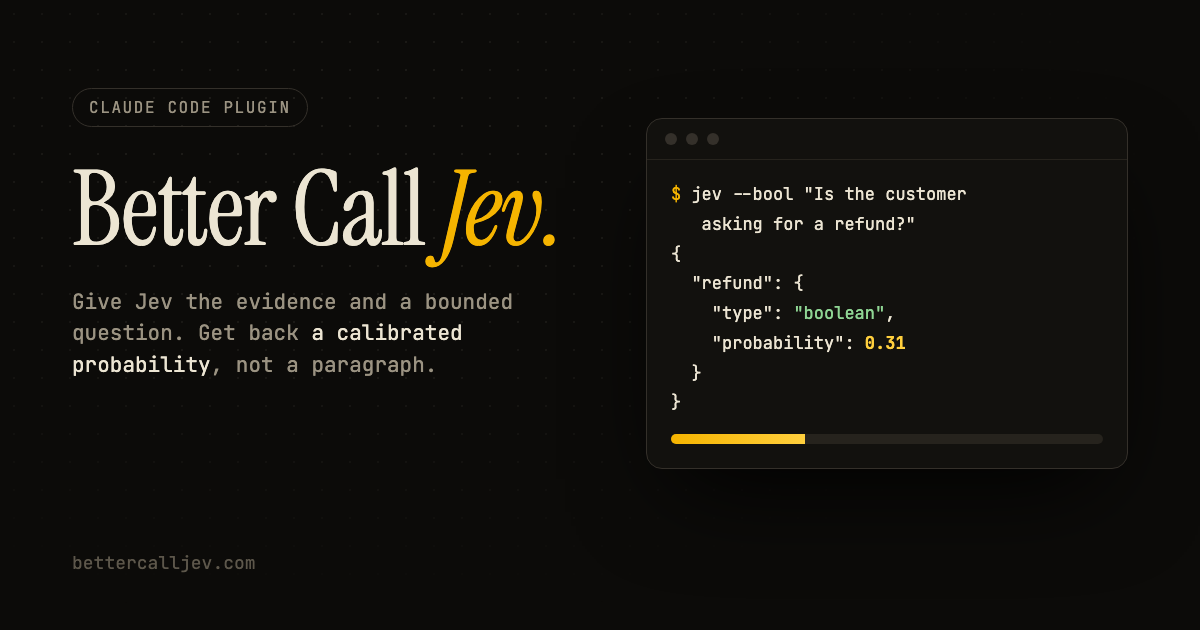
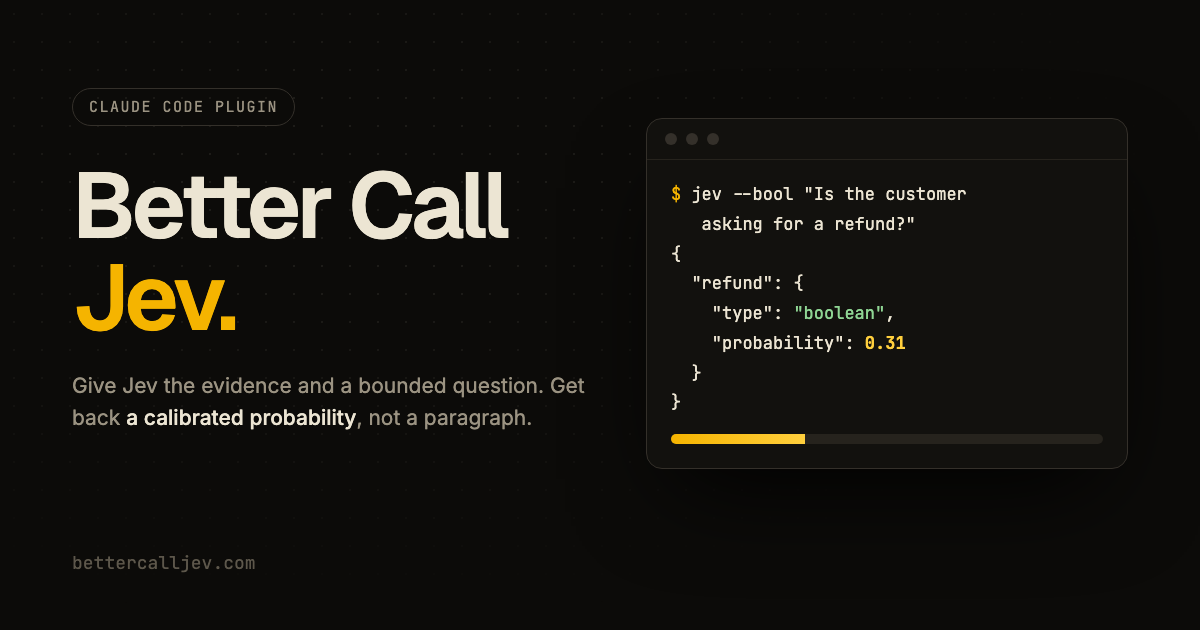
Switch site typography to Geist, Inter and JetBrains Mono

diff --git a/site/index.html b/site/index.html
@@ -31,7 +31,7 @@
 <link rel="alternate" type="text/plain" href="/llms.txt" title="llms.txt">
 <link rel="preconnect" href="https://fonts.googleapis.com">
 <link rel="preconnect" href="https://fonts.gstatic.com" crossorigin>
-<link href="https://fonts.googleapis.com/css2?family=JetBrains+Mono:ital,wght@0,400;0,500;0,700;1,400&family=Instrument+Serif:ital@0;1&display=swap" rel="stylesheet">
+<link href="https://fonts.googleapis.com/css2?family=Geist:wght@500;600;700&family=Inter:wght@400;500;600&family=JetBrains+Mono:wght@400;500;700&display=swap" rel="stylesheet">
 
 <script type="application/ld+json">
 {
@@ -168,10 +168,12 @@
     margin: 0;
     background: var(--bg);
     color: var(--fg);
-    font-family: "JetBrains Mono", ui-monospace, SFMono-Regular, Menlo, Consolas, monospace;
-    font-size: 15px;
-    line-height: 1.65;
-    font-feature-settings: "liga" 0, "calt" 0;
+    font-family: "Inter", -apple-system, BlinkMacSystemFont, "Helvetica Neue", Helvetica, Arial, sans-serif;
+    font-size: 16px;
+    line-height: 1.6;
+    font-feature-settings: "cv11", "ss01", "calt";
+    --mono: "JetBrains Mono", ui-monospace, SFMono-Regular, Menlo, Consolas, monospace;
+    --display: "Geist", "Inter", -apple-system, "Helvetica Neue", Helvetica, Arial, sans-serif;
     -webkit-font-smoothing: antialiased;
     overflow-x: hidden;
   }
@@ -192,7 +194,7 @@
   .wrap { max-width: 1040px; margin: 0 auto; padding: 0 16px; }
   @media (min-width: 720px) { .wrap { padding: 0 32px; } }
 
-  .serif { font-family: "Instrument Serif", Georgia, "Times New Roman", serif; font-weight: 400; letter-spacing: -.01em; }
+  .serif { font-family: var(--display); font-weight: 600; letter-spacing: -.035em; }
 
   /* nav */
   nav {
@@ -202,12 +204,12 @@
     border-bottom: 1px solid var(--line);
   }
   nav .wrap { display: flex; align-items: center; justify-content: space-between; height: 56px; }
-  .brand { display: flex; align-items: center; gap: 10px; font-weight: 500; }
+  .brand { display: flex; align-items: center; gap: 10px; font-weight: 500; font-family: var(--mono); font-size: 14px; }
   .brand .mark {
     width: 24px; height: 24px; border-radius: 6px; background: var(--amber); color: var(--amber-ink);
-    display: grid; place-items: center; font-family: "Instrument Serif", Georgia, serif; font-size: 18px; line-height: 1;
+    display: grid; place-items: center; font-family: var(--display); font-weight: 700; font-size: 15px; line-height: 1;
   }
-  nav ul { display: flex; gap: 22px; list-style: none; margin: 0; padding: 0; font-size: 13px; color: var(--muted); }
+  nav ul { display: flex; gap: 22px; list-style: none; margin: 0; padding: 0; font-size: 14px; font-weight: 500; color: var(--muted); }
   nav ul a:hover { color: var(--fg); }
   nav ul li:nth-child(-n+3) { display: none; }
   @media (min-width: 720px) { nav ul li:nth-child(-n+3) { display: block; } }
@@ -218,13 +220,13 @@
   .hero { padding: 72px 0 48px; display: grid; gap: 40px; align-items: center; }
   @media (min-width: 900px) { .hero { grid-template-columns: 1.05fr 1fr; padding: 96px 0 72px; gap: 56px; } }
   .eyebrow {
-    display: inline-flex; align-items: center; gap: 8px; font-size: 12px; letter-spacing: .08em; text-transform: uppercase;
+    display: inline-flex; align-items: center; gap: 8px; font-family: var(--mono); font-size: 12px; letter-spacing: .08em; text-transform: uppercase;
     color: var(--muted); border: 1px solid var(--line-2); padding: 5px 11px; border-radius: 999px; margin-bottom: 26px;
   }
   .eyebrow i { width: 6px; height: 6px; border-radius: 50%; background: var(--green); box-shadow: 0 0 0 3px color-mix(in srgb, var(--green) 25%, transparent); }
-  h1 { font-size: clamp(52px, 8.6vw, 92px); line-height: .96; margin: 0 0 22px; }
-  h1 em { font-style: italic; color: var(--amber); }
-  .lede { font-size: 16px; color: var(--muted); max-width: 480px; margin: 0 0 30px; }
+  h1 { font-size: clamp(46px, 7.6vw, 84px); line-height: .98; margin: 0 0 22px; }
+  h1 em { font-style: normal; color: var(--amber); }
+  .lede { font-size: 18px; color: var(--muted); max-width: 480px; margin: 0 0 30px; }
   .lede b { color: var(--fg); font-weight: 500; }
   .cta { display: flex; flex-wrap: wrap; gap: 10px; align-items: center; }
   .btn {
@@ -234,10 +236,11 @@
   .btn:hover { transform: translateY(-1px); border-color: var(--muted); color: var(--fg); }
   .btn.primary { background: var(--amber); color: var(--amber-ink); border-color: var(--amber); }
   .btn.primary:hover { background: var(--amber-2); border-color: var(--amber-2); color: var(--amber-ink); }
-  .btn kbd { font: inherit; opacity: .7; }
+  .btn kbd { font: inherit; font-family: var(--mono); opacity: .7; }
 
   /* terminal */
   .term {
+    font-family: var(--mono);
     background: var(--bg-2); border: 1px solid var(--line-2); border-radius: 12px; box-shadow: var(--shadow);
     overflow: hidden; font-size: 13px; line-height: 1.7; position: relative;
   }
@@ -266,22 +269,22 @@
   /* sections */
   section { padding: 72px 0; border-top: 1px solid var(--line); }
   .sec-head { display: grid; gap: 8px; margin-bottom: 32px; }
-  .sec-head .idx { color: var(--amber); font-size: 12px; letter-spacing: .1em; }
-  h2 { font-size: clamp(34px, 5vw, 52px); line-height: 1.02; margin: 0; }
+  .sec-head .idx { color: var(--amber); font-family: var(--mono); font-size: 12px; letter-spacing: .1em; }
+  h2 { font-size: clamp(32px, 4.6vw, 48px); line-height: 1.05; margin: 0; }
   .sec-head p { color: var(--muted); max-width: 560px; margin: 4px 0 0; }
-  h3 { font-size: 14px; font-weight: 500; margin: 32px 0 10px; letter-spacing: .04em; text-transform: uppercase; color: var(--muted); }
+  h3 { font-family: var(--mono); font-size: 13px; font-weight: 500; margin: 32px 0 10px; letter-spacing: .06em; text-transform: uppercase; color: var(--muted); }
   p { margin: 0 0 14px; }
-  p code, li code, td code { background: var(--amber-soft); color: var(--amber-2); padding: 1px 6px; border-radius: 4px; font-size: .92em; }
+  p code, li code, td code, span code { font-family: var(--mono); background: var(--amber-soft); color: var(--amber-2); padding: 1px 6px; border-radius: 4px; font-size: .92em; }
 
   /* code blocks */
-  .code { position: relative; background: var(--bg-2); border: 1px solid var(--line-2); border-radius: 10px; margin: 12px 0 18px; }
+  .code { font-family: var(--mono); position: relative; background: var(--bg-2); border: 1px solid var(--line-2); border-radius: 10px; margin: 12px 0 18px; }
   .code pre { margin: 0; padding: 16px 72px 16px 18px; overflow-x: auto; font-size: 13px; line-height: 1.65; }
   .code .c { color: var(--muted); }
   .code .p { color: var(--amber); }
   .code .s { color: var(--green); }
   .code .n { color: var(--amber-2); }
   .copy {
-    position: absolute; top: 8px; right: 8px; font: inherit; font-size: 11px; letter-spacing: .06em; text-transform: uppercase;
+    position: absolute; top: 8px; right: 8px; font: inherit; font-family: var(--mono); font-size: 11px; letter-spacing: .06em; text-transform: uppercase;
     background: var(--bg); color: var(--muted); border: 1px solid var(--line-2); border-radius: 6px; padding: 5px 9px; cursor: pointer;
     transition: color .15s, border-color .15s;
   }
@@ -297,10 +300,10 @@
   }
   .tile:hover { transform: translateY(-2px); border-color: var(--muted); }
   .tile .type { display: flex; justify-content: space-between; align-items: baseline; }
-  .tile .type b { font-size: 18px; font-weight: 700; color: var(--amber-2); }
-  .tile .type span { font-size: 12px; color: var(--dim); }
-  .tile p { color: var(--muted); font-size: 13.5px; margin: 0; }
-  .viz { font-size: 12px; color: var(--muted); display: grid; gap: 6px; }
+  .tile .type b { font-family: var(--mono); font-size: 17px; font-weight: 700; color: var(--amber-2); }
+  .tile .type span { font-family: var(--mono); font-size: 12px; color: var(--dim); }
+  .tile p { color: var(--muted); font-size: 14.5px; margin: 0; }
+  .viz { font-family: var(--mono); font-size: 12px; color: var(--muted); display: grid; gap: 6px; }
   .viz .row { display: grid; grid-template-columns: 8ch 1fr 4ch; gap: 10px; align-items: center; }
   .viz .row .track { height: 6px; background: var(--line); border-radius: 999px; overflow: hidden; }
   .viz .row .fill { height: 100%; width: 0; background: var(--amber); border-radius: 999px; transition: width .9s cubic-bezier(.2,.8,.2,1); }
@@ -317,10 +320,10 @@
   .steps { display: grid; gap: 0; border: 1px solid var(--line-2); border-radius: 12px; overflow: hidden; background: var(--bg-2); }
   .step { display: grid; grid-template-columns: 56px 1fr; border-top: 1px solid var(--line); }
   .step:first-child { border-top: 0; }
-  .step .n { display: grid; place-items: center; color: var(--amber); border-right: 1px solid var(--line); font-size: 13px; }
+  .step .n { display: grid; place-items: center; color: var(--amber); border-right: 1px solid var(--line); font-family: var(--mono); font-size: 13px; }
   .step .b { padding: 20px 22px; }
-  .step .b b { display: block; font-weight: 500; margin-bottom: 4px; }
-  .step .b span { color: var(--muted); font-size: 13.5px; }
+  .step .b b { display: block; font-weight: 600; margin-bottom: 4px; }
+  .step .b span { color: var(--muted); font-size: 14.5px; }
   .why-grid { display: grid; gap: 28px; }
   @media (min-width: 900px) { .why-grid { grid-template-columns: 1fr 1fr; gap: 48px; align-items: start; } }
   .why-grid > *, .install-grid > *, .bento > *, .hero > * { min-width: 0; }
@@ -330,28 +333,28 @@
   /* install */
   .install-grid { display: grid; gap: 28px; }
   @media (min-width: 900px) { .install-grid { grid-template-columns: 1fr 1fr; gap: 48px; } }
-  .note { color: var(--muted); font-size: 13.5px; }
+  .note { color: var(--muted); font-size: 14.5px; }
 
   /* patterns */
   .patterns { display: grid; gap: 1px; background: var(--line-2); border: 1px solid var(--line-2); border-radius: 12px; overflow: hidden; }
   @media (min-width: 720px) { .patterns { grid-template-columns: 1fr 1fr; } }
   .pat { background: var(--bg-2); padding: 18px 20px; display: grid; grid-template-columns: 9ch 1fr; gap: 12px; align-items: baseline; }
-  .pat b { color: var(--amber-2); font-weight: 500; }
-  .pat span { color: var(--muted); font-size: 13.5px; }
+  .pat b { font-family: var(--mono); color: var(--amber-2); font-weight: 500; font-size: 14px; }
+  .pat span { color: var(--muted); font-size: 14.5px; }
 
   /* faq */
   details { border-top: 1px solid var(--line); }
   details:last-of-type { border-bottom: 1px solid var(--line); }
-  summary { cursor: pointer; padding: 18px 0; list-style: none; display: flex; justify-content: space-between; gap: 16px; font-weight: 500; }
+  summary { cursor: pointer; padding: 18px 0; list-style: none; display: flex; justify-content: space-between; gap: 16px; font-weight: 600; }
   summary::-webkit-details-marker { display: none; }
-  summary::after { content: "+"; color: var(--amber); }
+  summary::after { content: "+"; color: var(--amber); font-family: var(--mono); }
   details[open] summary::after { content: "−"; }
   details p { color: var(--muted); padding-bottom: 18px; max-width: 720px; }
 
-  footer { padding: 48px 0 64px; border-top: 1px solid var(--line); color: var(--muted); font-size: 13px; }
+  footer { padding: 48px 0 64px; border-top: 1px solid var(--line); color: var(--muted); font-size: 14px; }
   .foot-grid { display: grid; gap: 24px; }
   @media (min-width: 720px) { .foot-grid { grid-template-columns: 1fr auto; align-items: end; } }
-  .verdict { display: grid; gap: 6px; font-size: 12px; min-width: 260px; }
+  .verdict { font-family: var(--mono); display: grid; gap: 6px; font-size: 12px; min-width: 260px; }
   .verdict .row { display: grid; grid-template-columns: 5ch 1fr 4ch; gap: 10px; align-items: center; }
   .verdict .track { height: 5px; background: var(--line); border-radius: 999px; overflow: hidden; }
   .verdict .fill { height: 100%; background: var(--amber); border-radius: 999px; width: 0; transition: width 1s cubic-bezier(.2,.8,.2,1); }
